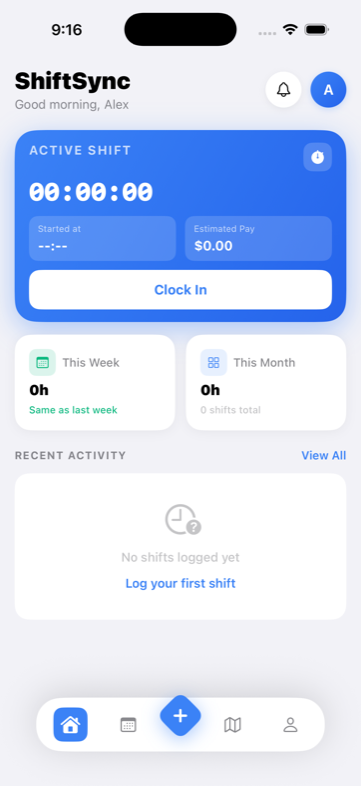
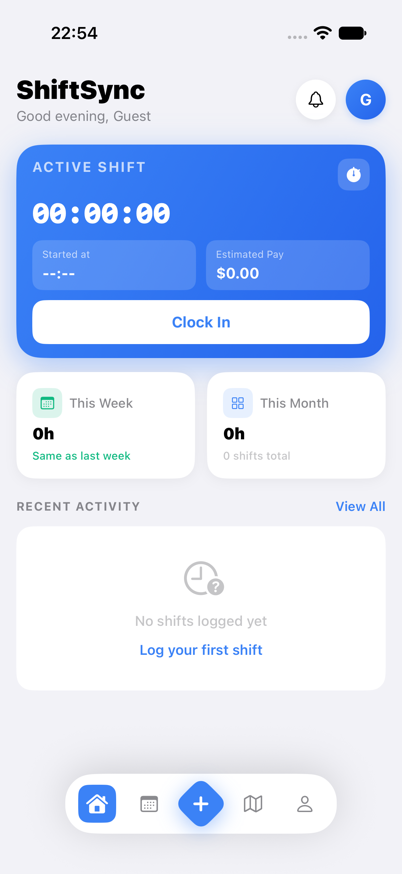
Simplify Watch settings UI, mirror clock notifications to Watch, refresh screenshot
Removed the Apple Watch pairing/install status section from Settings, since
Xcode's device support for new Watch hardware can lag behind release. Clock
in/out now fires a local notification that watchOS mirrors to a paired Watch
automatically, without requiring the companion app to be installed.

diff --git a/ShiftSync/ProfileView.swift b/ShiftSync/ProfileView.swift
@@ -394,10 +394,7 @@ struct SecurityPrivacyView: View {
 struct NotificationPrefsView: View {
     @ObservedObject private var settings = AppSettings.shared
     @ObservedObject private var locationManager = LocationManager.shared
-    @ObservedObject private var watchSession = WatchSessionManager.shared
-    @ObservedObject private var watch = WatchSessionManager.shared
     @Environment(\.dismiss) private var dismiss
-    @State private var showWatchResultAlert = false
 
     var body: some View {
         ScrollView {
@@ -435,214 +432,12 @@ struct NotificationPrefsView: View {
                 .background(Color.darkCard)
                 .clipShape(RoundedRectangle(cornerRadius: 16))
 
-                // Apple Watch section
-                VStack(spacing: 0) {
-                    // Status row
-                    HStack(spacing: 12) {
-                        ZStack {
-                            RoundedRectangle(cornerRadius: 8)
-                                .fill(Color.shiftBlue.opacity(0.15))
-                                .frame(width: 34, height: 34)
-                            Image(systemName: "applewatch")
-                                .font(.system(size: 14))
-                                .foregroundColor(.shiftBlue)
-                        }
-                        VStack(alignment: .leading, spacing: 2) {
-                            Text("Apple Watch")
-                                .font(.system(size: 15))
-                                .foregroundColor(.ssTextPrimary)
-                            let statusText: String = {
-                                if !watch.isPaired { return "No Apple Watch paired" }
-                                if watch.activationState != .activated { return "Connecting to Apple Watch…" }
-                                if !watch.isWatchAppInstalled { return "Not installed" }
-                                return watch.isWatchReachable ? "Installed — reachable" : "Installed — not reachable"
-                            }()
-                            let statusColor: Color = {
-                                if !watch.isPaired { return .orangeAccent }
-                                if watch.activationState != .activated { return .ssTextMuted }
-                                if !watch.isWatchAppInstalled { return .ssTextMuted }
-                                return watch.isWatchReachable ? .greenAccent : .orangeAccent
-                            }()
-                            Text(statusText)
-                                .font(.system(size: 12))
-                                .foregroundColor(statusColor)
-                        }
-                        Spacer()
-                    }
-                    .padding(.horizontal, 16)
-                    .padding(.vertical, 14)
-
-                    Divider().background(Color.darkBg)
-
-                    // Install/manage on Watch
-                    Button(action: { _ = watch.openWatchAppManagePage() }) {
-                        HStack(spacing: 12) {
-                            ZStack {
-                                RoundedRectangle(cornerRadius: 8)
-                                    .fill(Color.tealAccent.opacity(0.15))
-                                    .frame(width: 34, height: 34)
-                                Image(systemName: "square.and.arrow.down")
-                                    .font(.system(size: 14))
-                                    .foregroundColor(.tealAccent)
-                            }
-                            Text(watch.isWatchAppInstalled ? "Manage in Watch app" : "Install on Apple Watch")
-                                .font(.system(size: 15))
-                                .foregroundColor(.ssTextPrimary)
-                            Spacer()
-                            Image(systemName: "arrow.up.right")
-                                .font(.system(size: 12, weight: .semibold))
-                                .foregroundColor(.ssTextMuted)
-                        }
-                        .padding(.horizontal, 16)
-                        .padding(.vertical, 14)
-                    }
-
-                    Divider().background(Color.darkBg)
-
-                    // Send test to Watch
-                    Button(action: { watch.sendTestNotificationToWatch() }) {
-                        HStack(spacing: 12) {
-                            ZStack {
-                                RoundedRectangle(cornerRadius: 8)
-                                    .fill(Color.orangeAccent.opacity(0.15))
-                                    .frame(width: 34, height: 34)
-                                Image(systemName: "bell.badge")
-                                    .font(.system(size: 14))
-                                    .foregroundColor(.orangeAccent)
-                            }
-                            Text("Send Test to Watch")
-                                .font(.system(size: 15))
-                                .foregroundColor(.ssTextPrimary)
-                            Spacer()
-                            Image(systemName: "chevron.right")
-                                .font(.system(size: 12, weight: .semibold))
-                                .foregroundColor(.ssTextMuted)
-                        }
-                        .padding(.horizontal, 16)
-                        .padding(.vertical, 14)
-                    }
-                    .disabled(!watch.isPaired || watch.activationState != .activated || !watch.isWatchAppInstalled)
-                }
-                .background(Color.darkCard)
-                .clipShape(RoundedRectangle(cornerRadius: 16))
-
-                if !watch.isPaired {
-                    HStack(alignment: .top, spacing: 12) {
-                        Image(systemName: "exclamationmark.triangle.fill")
-                            .font(.system(size: 16))
-                            .foregroundColor(.orangeAccent)
-                        VStack(alignment: .leading, spacing: 6) {
-                            Text("No Apple Watch paired")
-                                .font(.system(size: 14, weight: .semibold))
-                                .foregroundColor(.ssTextPrimary)
-                            VStack(alignment: .leading, spacing: 4) {
-                                Text("1. Open the Watch app on your iPhone")
-                                Text("2. Tap \"All Watches\" → \"Add Watch\" and follow the steps")
-                            }
-                            .font(.system(size: 12))
-                            .foregroundColor(.ssTextSecondary)
-
-                            Button(action: { _ = watch.openWatchAppManagePage() }) {
-                                HStack(spacing: 8) {
-                                    Image(systemName: "applewatch")
-                                        .font(.system(size: 14))
-                                    Text("Open Watch app")
-                                        .font(.system(size: 13, weight: .bold))
-                                }
-                                .foregroundColor(.white)
-                                .padding(.horizontal, 12)
-                                .padding(.vertical, 8)
-                                .background(Color.shiftBlue)
-                                .clipShape(Capsule())
-                            }
-                            .padding(.top, 4)
-                        }
-                        Spacer()
-                    }
-                    .padding(14)
-                    .background(Color.orangeAccent.opacity(0.1))
-                    .clipShape(RoundedRectangle(cornerRadius: 12))
-                }
-
-                if !watch.isWatchAppInstalled {
-                    HStack(alignment: .top, spacing: 12) {
-                        Image(systemName: "exclamationmark.triangle.fill")
-                            .font(.system(size: 16))
-                            .foregroundColor(.orangeAccent)
-                        VStack(alignment: .leading, spacing: 6) {
-                            Text("Can't install the ShiftSync Watch app?")
-                                .font(.system(size: 14, weight: .semibold))
-                                .foregroundColor(.ssTextPrimary)
-                            VStack(alignment: .leading, spacing: 4) {
-                                Text("1. Open the Watch app on your iPhone")
-                                Text("2. My Watch → scroll to ShiftSync → tap Install")
-                                Text("3. If using Simulator, run the \"ShiftSync Watch app Watch App\" scheme once")
-                            }
-                            .font(.system(size: 12))
-                            .foregroundColor(.ssTextSecondary)
-
-                            Button(action: { _ = watch.openWatchAppManagePage() }) {
-                                HStack(spacing: 8) {
-                                    Image(systemName: "arrow.up.right.square")
-                                        .font(.system(size: 14))
-                                    Text("Open Watch app")
-                                        .font(.system(size: 13, weight: .bold))
-                                }
-                                .foregroundColor(.white)
-                                .padding(.horizontal, 12)
-                                .padding(.vertical, 8)
-                                .background(Color.shiftBlue)
-                                .clipShape(Capsule())
-                            }
-                            .padding(.top, 4)
-                        }
-                        Spacer()
-                    }
-                    .padding(14)
-                    .background(Color.orangeAccent.opacity(0.1))
-                    .clipShape(RoundedRectangle(cornerRadius: 12))
-                }
-
-                // Feedback from watch actions
-                if let msg = watch.watchTestResult, !msg.isEmpty {
-                    HStack(alignment: .top, spacing: 10) {
-                        Image(systemName: "info.circle.fill")
-                            .font(.system(size: 14))
-                            .foregroundColor(.shiftBlue)
-                        Text(msg)
-                            .font(.system(size: 12))
-                            .foregroundColor(.ssTextSecondary)
-                            .fixedSize(horizontal: false, vertical: true)
-                    }
-                    .padding(12)
-                    .background(Color.shiftBlue.opacity(0.08))
-                    .clipShape(RoundedRectangle(cornerRadius: 12))
-                }
-
                 Spacer().frame(height: 32)
             }
             .padding(.horizontal, 16)
         }
         .background(Color.darkBg.ignoresSafeArea())
         .navigationBarHidden(true)
-        .onChange(of: watchSession.watchTestResult) { _, result in
-            showWatchResultAlert = result != nil
-        }
-        .alert("Apple Watch", isPresented: $showWatchResultAlert) {
-            Button("OK", role: .cancel) {}
-        } message: {
-            Text(watchSession.watchTestResult ?? "")
-        }
-    }
-
-    private var watchStatusLabel: String {
-        if !watchSession.isWatchAppInstalled { return "ShiftSync not installed on watch" }
-        return watchSession.isWatchReachable ? "Watch is connected" : "Watch may be unreachable"
-    }
-
-    private var watchStatusColor: Color {
-        if !watchSession.isWatchAppInstalled { return .orangeAccent }
-        return watchSession.isWatchReachable ? .greenAccent : .ssTextMuted
     }
 }
 

diff --git a/ShiftSync/ShiftStore.swift b/ShiftSync/ShiftStore.swift
@@ -1,5 +1,6 @@
 import Foundation
 import Combine
+import UserNotifications
 
 // MARK: - Models
 enum ShiftType: String, Codable, CaseIterable {
@@ -106,6 +107,7 @@ class ShiftStore: ObservableObject {
         WatchSessionManager.shared.sendStateUpdate()
         // Cancel "didn't make it to work?" alert — user is clearly working today
         LocationManager.shared.cancelDailyAbsenceCheck()
+        fireClockNotification(title: "Clocked In ✓", body: "Your shift has started.")
     }
 
     func clockOut() {
@@ -127,6 +129,7 @@ class ShiftStore: ObservableObject {
                 UserDefaults.standard.removeObject(forKey: activeKey)
                 WatchSessionManager.shared.sendStateUpdate()
                 LocationManager.shared.rescheduleDailyAbsenceCheckFromTomorrow()
+                fireClockNotification(title: "Clocked Out ✓", body: "Your shift has ended. Nice work!")
                 return
             }
         }
@@ -139,6 +142,25 @@ class ShiftStore: ObservableObject {
         UserDefaults.standard.removeObject(forKey: activeKey)
         WatchSessionManager.shared.sendStateUpdate()
         LocationManager.shared.rescheduleDailyAbsenceCheckFromTomorrow()
+        fireClockNotification(title: "Clocked Out ✓", body: "Your shift has ended. Nice work!")
+    }
+
+    // MARK: Notifications
+
+    /// Fires a local notification confirming the clock in/out action. iOS mirrors this
+    /// to a paired Apple Watch automatically — no Watch app installation required.
+    private func fireClockNotification(title: String, body: String) {
+        UNUserNotificationCenter.current().requestAuthorization(options: [.alert, .sound]) { granted, _ in
+            guard granted else { return }
+            let content = UNMutableNotificationContent()
+            content.title = title
+            content.body  = body
+            content.sound = .default
+            UNUserNotificationCenter.current().add(
+                UNNotificationRequest(identifier: "ss_clock_\(Int(Date().timeIntervalSince1970))",
+                                      content: content, trigger: nil)
+            )
+        }
     }
 
     func deleteEntry(id: UUID) {

diff --git a/README.md b/README.md
@@ -19,7 +19,7 @@ A shift tracking app for iOS and Apple Watch built with SwiftUI.
 - **Export Reports** — Export shift data by period (weekly, monthly, custom)
 - **Workplace Geofencing** — Location-based arrival/departure notifications, including a prompt when you're *already* inside the workplace zone at the time you enable alerts
 - **Apple Watch App** — Clock in/out from your wrist with instant on-watch confirmation notifications, plus built-in notification permission checker and test button
-- **Test Watch Notifications from iPhone** — Settings → Notifications → *Test Apple Watch Notification* relays a request to the watch (with a background-queued fallback via `transferUserInfo` when the watch isn't live-reachable)
+- **Clock In/Out Notifications** — Every clock in/out fires an instant local notification ("Clocked In ✓" / "Clocked Out ✓"). watchOS mirrors these to a paired Apple Watch automatically — no Watch app installation required
 - **Notifications** — Missed shift prompts with quick day-type logging
 - **Dark Mode** — Full dark/light theme support
 
@@ -30,6 +30,7 @@ A shift tracking app for iOS and Apple Watch built with SwiftUI.
 - **Watch clock-in/out feedback** — Watch clock actions now use `sendMessage(..., replyHandler:, errorHandler:)` and fire a local notification on the watch confirming success ("Clocked In ✓") or a clear failure reason if the iPhone can't be reached. The phone implements the reply-based `didReceiveMessage` variant so replies never time out.
 - **`WCErrorCodeWatchAppNotInstalled` handling** — `WatchSessionManager` publishes `isWatchAppInstalled` and gates every `updateApplicationContext` / `sendMessage` / `transferUserInfo` call behind it, eliminating repeated console error spam when the Watch app isn't installed and surfacing an actionable message in Settings instead.
 - **iOS-only target hygiene** — The main app target was ported off the multiplatform template (`SDKROOT = auto` → `iphoneos`), and leftover macOS-only sandbox/entitlement keys (`ENABLE_APP_SANDBOX`, `ENABLE_USER_SELECTED_FILES`, `REGISTER_APP_GROUPS`, `MACOSX_DEPLOYMENT_TARGET`, `XROS_DEPLOYMENT_TARGET`, cross-platform `LD_RUNPATH_SEARCH_PATHS`) were removed. These were the root cause of the *"ShiftSync Watch app can't be installed at this time"* error, because iOS provisioning rejects apps carrying macOS Sandbox entitlements and Watch companions can only pair with a genuine iPhone-only host.
+- **Simplified Watch onboarding in Settings** — Removed the Apple Watch pairing/install status section from Settings → Notifications, since Xcode's device support for brand-new Watch hardware can lag behind release and made that UI more confusing than helpful. Clock in/out confirmations now reach the Watch via standard notification mirroring instead, which works regardless of whether the dedicated Watch app is installed.
 
 ## Screen Support
 
@@ -71,7 +72,7 @@ Optimized for all iPhone sizes:
 | Overtime Rules | Toggle + daily threshold and multiplier (e.g. 1.5×) |
 | Vacation Days | Annual allowance with used/remaining tracking |
 | Workplace Location | Address used for geofence arrival/departure alerts |
-| Notifications | iOS notification settings shortcut + Apple Watch test-notification relay |
+| Notifications | Toggle for arrival/departure geofence alerts |
 
 ## Built With
 
